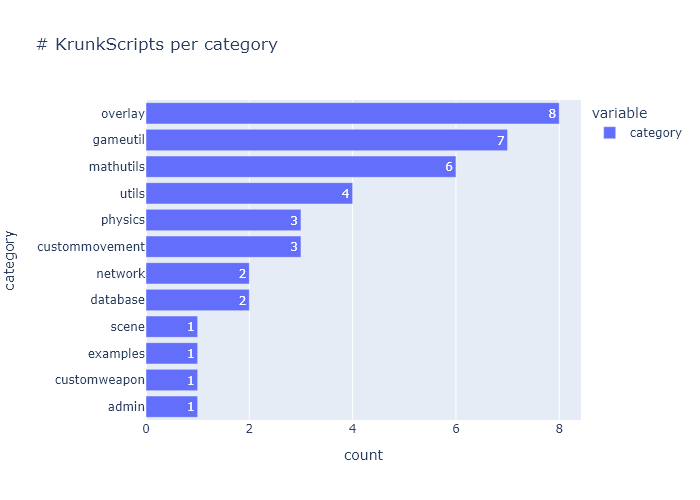
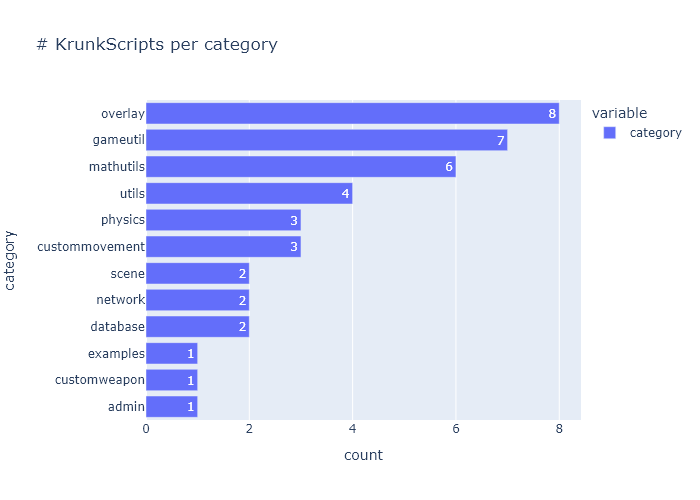
add cinegato

Changed region(s): [[0.12, 0.54, 0.21, 0.66], [0.27, 0.63, 0.36, 0.69]]

diff --git a/docs/KrunkScriptTable.md b/docs/KrunkScriptTable.md
@@ -36,8 +36,9 @@
 | 31 | physics        | aabb               | KG07       |          |          | yes     | AABB (axis-aligned bounding box-box) collision + resolution                                                                                                                                                     | https://discord.com/channels/859947586005368862/862113777946984459/1020742895092891698 | https://github.com/blandrice/blandlibs/tree/master/libs/physics/collisions                           | ["'physics'", " 'collisions'"]                                 |
 | 32 | physics        | raybox             | blandrice  |          |          | yes     | Ray-box intersections in Krunker.                                                                                                                                                                               |                                                                                        | https://github.com/blandrice/blandlibs/tree/master/libs/physics/collisions                           | ["'physics'", " 'collisions'"]                                 |
 | 33 | physics        | rotbox             | blandrice  |          |          | yes     | rotated bounding box collision                                                                                                                                                                                  |                                                                                        | https://github.com/blandrice/blandlibs/tree/master/libs/physics/collisions                           | ["'physics'", " 'collisions'"]                                 |
-| 34 | scene          | fade               | blandrice  | yes      | yes      |         | screen fade in/out using triggers https://streamable.com/x5oi68                                                                                                                                                 | https://discord.com/channels/484192043833491487/575245801744498689/1098317407061299261 | https://github.com/blandrice/blandlibs/tree/master/libs/scene/fade                                   | ["'scene'", " 'fade'"]                                         |
-| 35 | utils          | g                  | blandrice  |          |          | yes     | some global vars that other libs can reference to reduce calls                                                                                                                                                  |                                                                                        | https://github.com/blandrice/blandlibs/tree/master/libs/utils/global                                 | ["'utils'", " 'global'"]                                       |
-| 36 | utils          | gpt_strutils       | ChatGPT    |          |          | yes     | ChatGPT test on generating string utilities                                                                                                                                                                     |                                                                                        | https://github.com/blandrice/blandlibs/tree/master/libs/utils/ChatGPT                                | ["'utils'", " 'ChatGPT'"]                                      |
-| 37 | utils          | listutil           | blandrice  |          |          | yes     | Additional string utilities                                                                                                                                                                                     |                                                                                        | https://github.com/blandrice/blandlibs/tree/master/libs/utils/lists                                  | ["'utils'", " 'lists'"]                                        |
-| 38 | utils          | strutils           | ProfNoob   |          |          | yes     | Additional String utilities                                                                                                                                                                                     | https://discord.com/channels/859947586005368862/862113777946984459/957710191590268929  | https://github.com/blandrice/blandlibs/tree/master/libs/utils/strutil                                | ["'utils'", " 'strutil'"]                                      |
+| 34 | scene          | cinegato           | creepycats | yes      | yes      |         | Gato Cutscene Handler                                                                                                                                                                                           | https://discord.com/channels/484192043833491487/575245801744498689/967883995377442836  | https://github.com/blandrice/blandlibs/tree/master/libs/scene/cutscene                               | ["'scene'", " 'cutscene'"]                                     |
+| 35 | scene          | fade               | blandrice  | yes      | yes      |         | screen fade in/out using triggers https://streamable.com/x5oi68                                                                                                                                                 | https://discord.com/channels/484192043833491487/575245801744498689/1098317407061299261 | https://github.com/blandrice/blandlibs/tree/master/libs/scene/fade                                   | ["'scene'", " 'fade'"]                                         |
+| 36 | utils          | g                  | blandrice  |          |          | yes     | some global vars that other libs can reference to reduce calls                                                                                                                                                  |                                                                                        | https://github.com/blandrice/blandlibs/tree/master/libs/utils/global                                 | ["'utils'", " 'global'"]                                       |
+| 37 | utils          | gpt_strutils       | ChatGPT    |          |          | yes     | ChatGPT test on generating string utilities                                                                                                                                                                     |                                                                                        | https://github.com/blandrice/blandlibs/tree/master/libs/utils/ChatGPT                                | ["'utils'", " 'ChatGPT'"]                                      |
+| 38 | utils          | listutil           | blandrice  |          |          | yes     | Additional string utilities                                                                                                                                                                                     |                                                                                        | https://github.com/blandrice/blandlibs/tree/master/libs/utils/lists                                  | ["'utils'", " 'lists'"]                                        |
+| 39 | utils          | strutils           | ProfNoob   |          |          | yes     | Additional String utilities                                                                                                                                                                                     | https://discord.com/channels/859947586005368862/862113777946984459/957710191590268929  | https://github.com/blandrice/blandlibs/tree/master/libs/utils/strutil                                | ["'utils'", " 'strutil'"]                                      |
